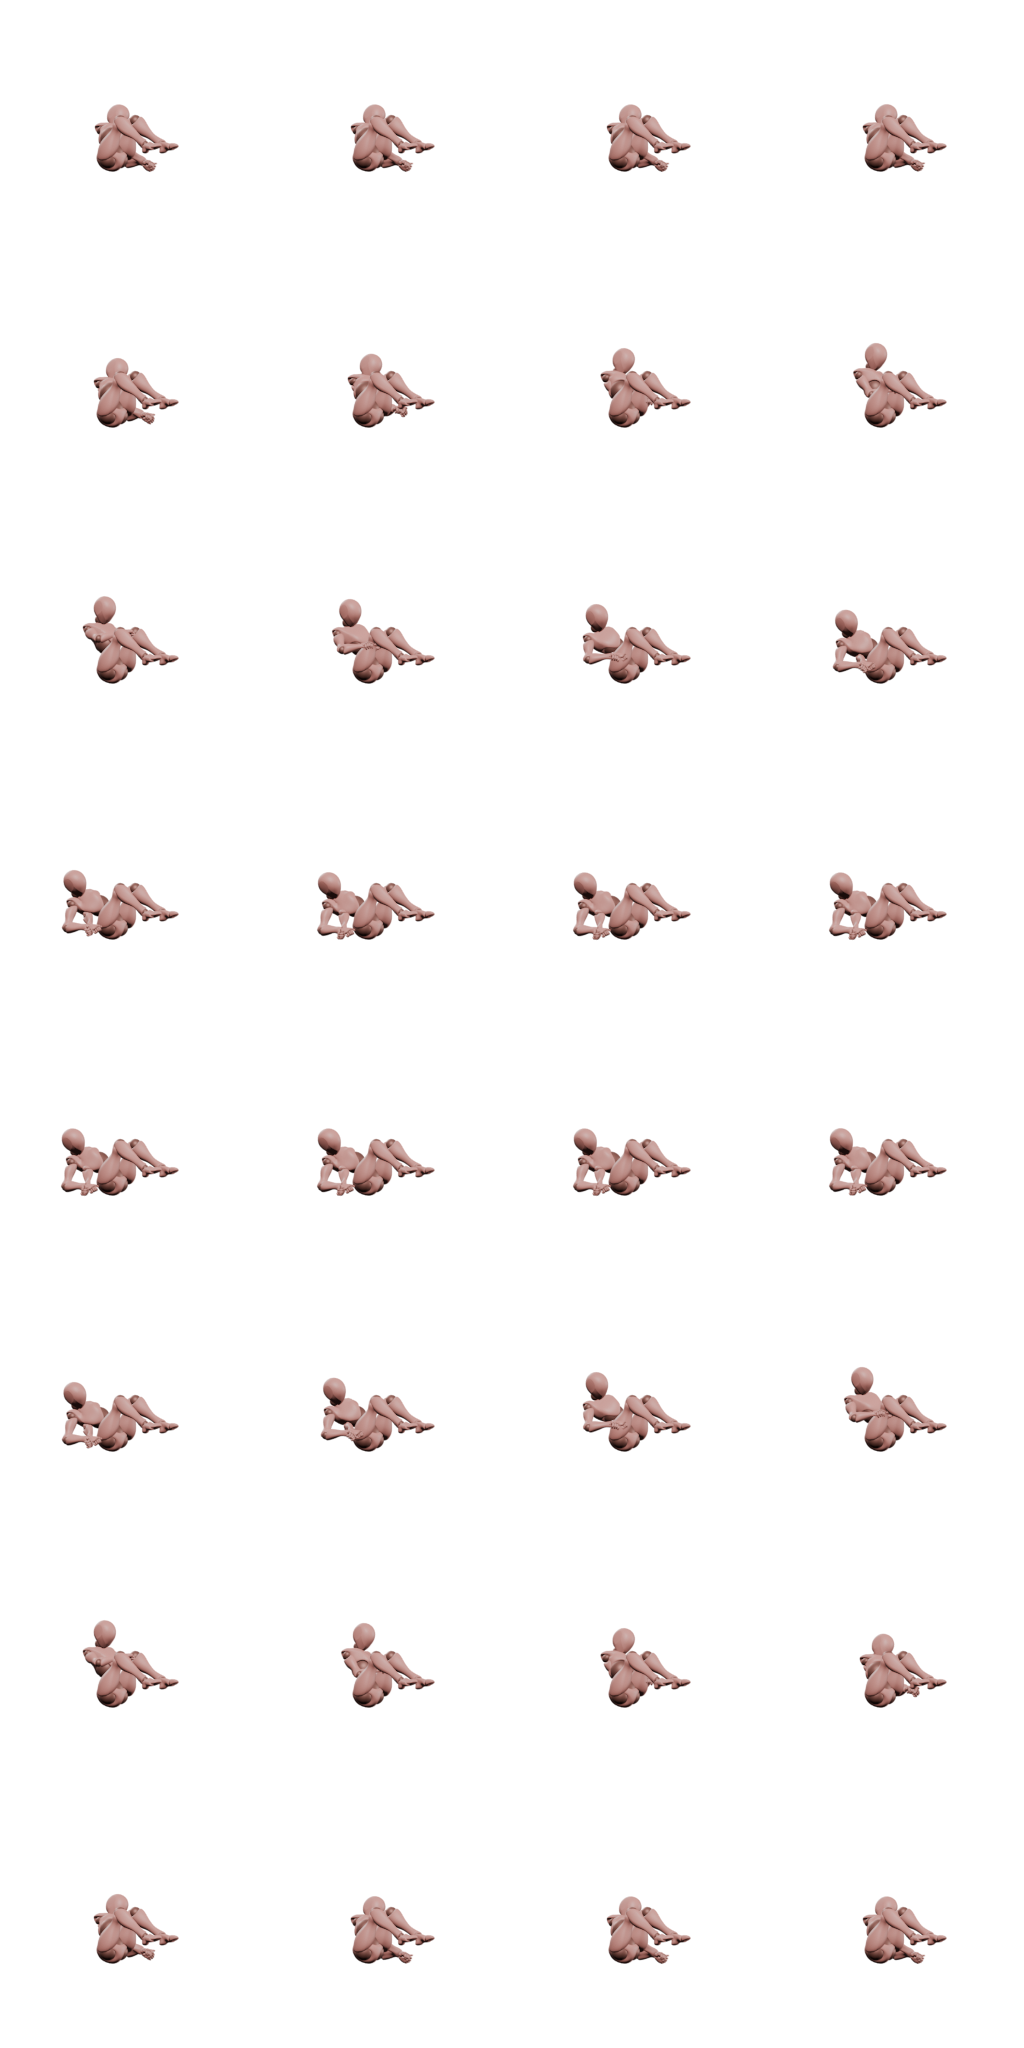
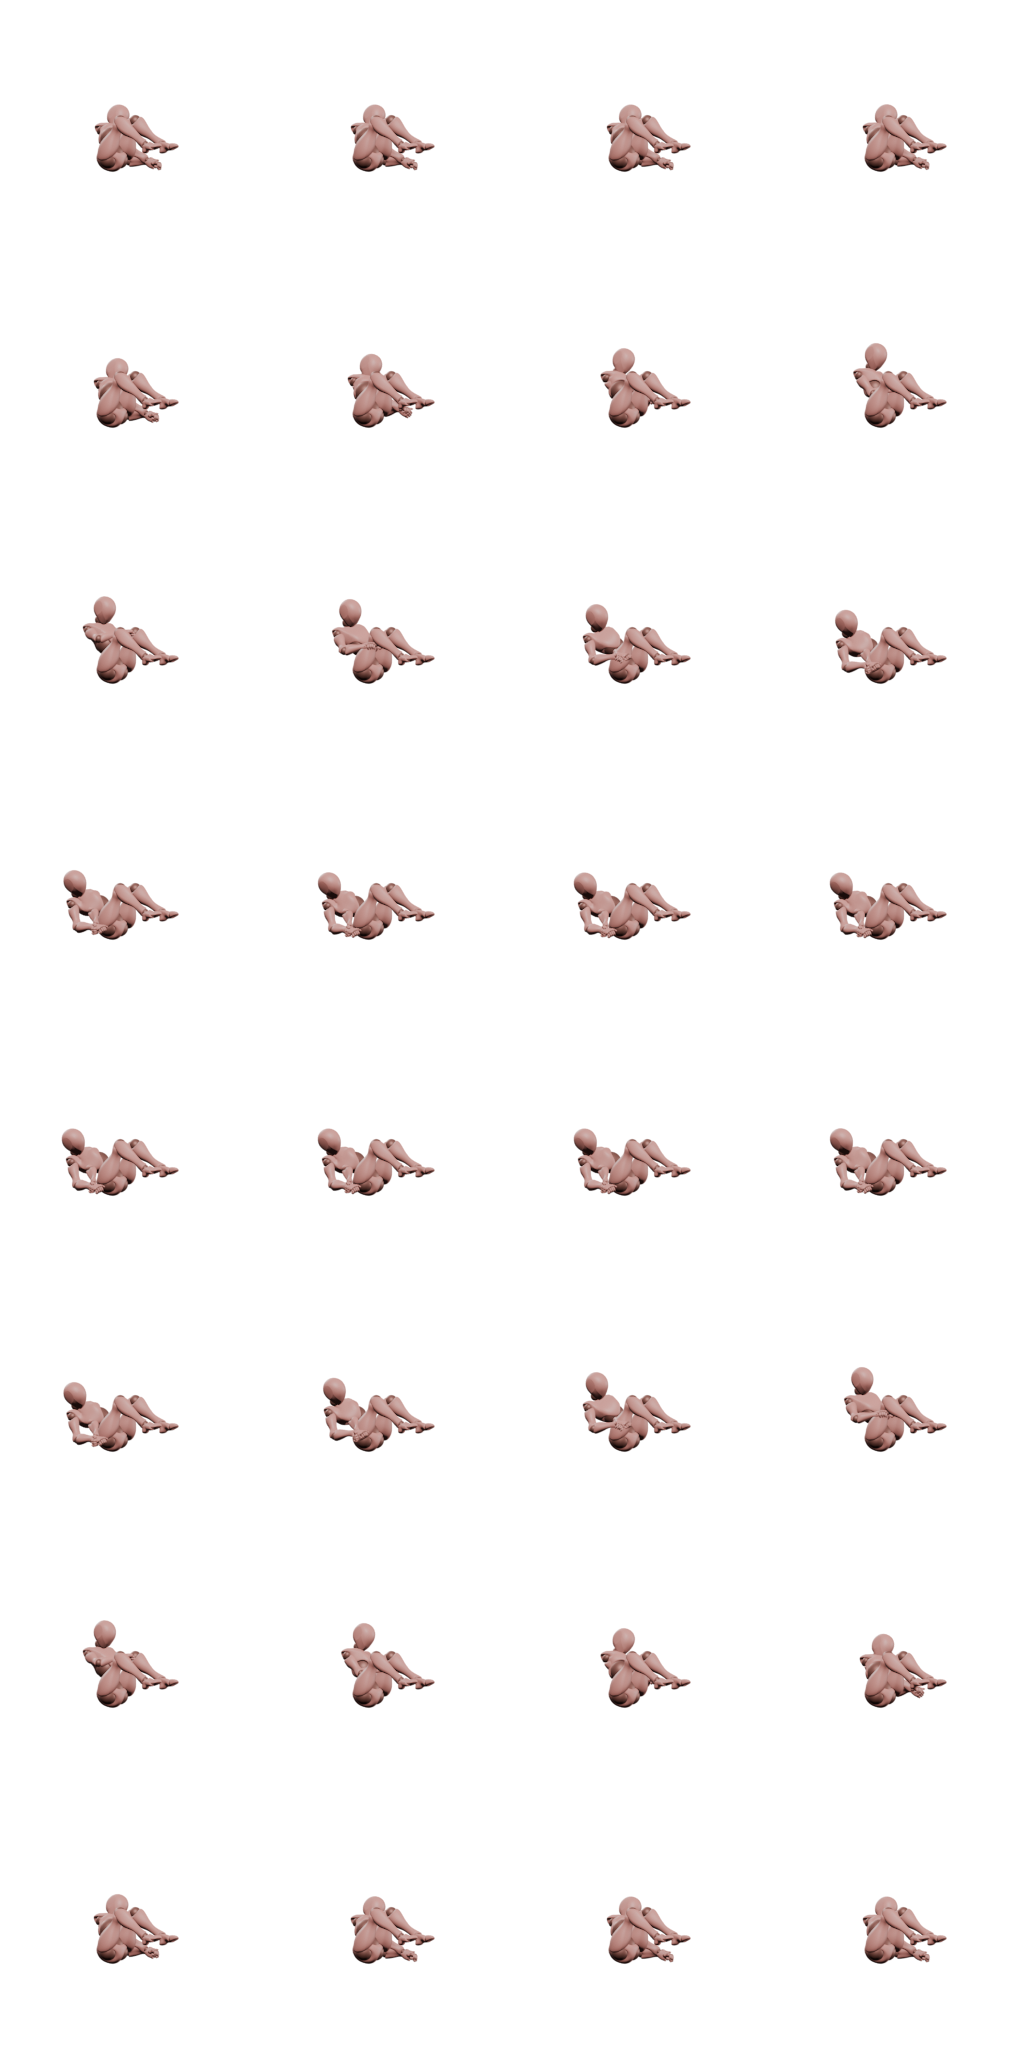
Les deux bras passent devant le torse
Ils sortaient sur le flanc. Mesuré sur la version précédente : le coude
tombait à y = +0,22 pour une épaule à +0,26 — donc à sa hauteur, sur le côté
du buste — puis le bras revenait vers l'avant pour rejoindre les mains. Ce
détour se lit comme un bras passé derrière.

Il suffisait d'avancer la cible des mains : seize centimètres devant le
bassin au lieu de six. Le coude est alors à +0,12, quatorze centimètres
devant l'épaule, et le bras entier reste du côté de la poitrine.

Le pôle reste dirigé vers le **bas**. Le pointer vers l'avant amenait bien le
coude devant, mais `verifier-gestes.py` le refuse — et il a raison, un coude
ne se plie pas de ce côté-là. Il n'en avait pas besoin : à cette distance le
bras est presque tendu, et un bras tendu suit la droite épaule-main, laquelle
passe devant.

Claude-Session: https://claude.ai/code/session_01NWeSsvViQDVGJHt91FTbcJ

diff --git a/scripts/gestes_generes.py b/scripts/gestes_generes.py
@@ -1258,10 +1258,25 @@ GESTES = {
                 _os("Neck"): (+0.52, +0.42, +0.74),
                 _os("Head"): (+0.44, -0.30, +0.84),
                 # Les mains jointes se posent près du sol, contre la hanche, et
-                # le pôle pousse le coude vers le bas — c'est lui qui décide où
-                # sort la pointe du bras.
-                _os("LeftArm"): Appui((+0.42, -0.06, 0.09), (+0.45, 0, -0.89)),
-                _os("RightArm"): Appui((+0.42, -0.06, 0.09), (+0.45, 0, -0.89)),
+                # **en avant** du buste : seize centimètres devant le bassin, et
+                # non six.
+                #
+                # C'est ce qui fait passer les deux bras devant le torse au lieu
+                # de les laisser filer à côté. Mesuré sur la version précédente,
+                # le coude tombait à y = +0,22, c'est-à-dire à hauteur d'épaule
+                # — le bras sortait donc sur le flanc puis revenait, ce qui se
+                # lit comme un bras passé derrière. Avec la main avancée, il est
+                # à +0,12 pour une épaule à +0,26 : quatorze centimètres devant
+                # elle.
+                #
+                # Le pôle, lui, reste dirigé vers le **bas**. Le pointer vers
+                # l'avant amenait bien le coude devant, mais le contrôle des
+                # postures le refuse — et il a raison, un coude ne se plie pas
+                # de ce côté-là. Il n'en avait pas besoin : le bras est presque
+                # tendu à cette distance, et un bras tendu suit la droite
+                # épaule-main, laquelle passe devant.
+                _os("LeftArm"): Appui((+0.42, -0.16, 0.09), (+0.10, +0.30, -0.95)),
+                _os("RightArm"): Appui((+0.42, -0.16, 0.09), (+0.10, +0.30, -0.95)),
                 _os("LeftHand"): SUIVRE,
                 _os("RightHand"): SUIVRE,
             }),
@@ -1285,8 +1300,8 @@ GESTES = {
                                      paume=(-0.72, -0.70, +0.00)),
                 _os("Neck"): (-0.52, +0.42, +0.74),
                 _os("Head"): (-0.44, -0.30, +0.84),
-                _os("LeftArm"): Appui((-0.42, -0.06, 0.09), (-0.45, 0, -0.89)),
-                _os("RightArm"): Appui((-0.42, -0.06, 0.09), (-0.45, 0, -0.89)),
+                _os("LeftArm"): Appui((-0.42, -0.16, 0.09), (-0.10, +0.30, -0.95)),
+                _os("RightArm"): Appui((-0.42, -0.16, 0.09), (-0.10, +0.30, -0.95)),
                 _os("LeftHand"): SUIVRE,
                 _os("RightHand"): SUIVRE,
             }),
